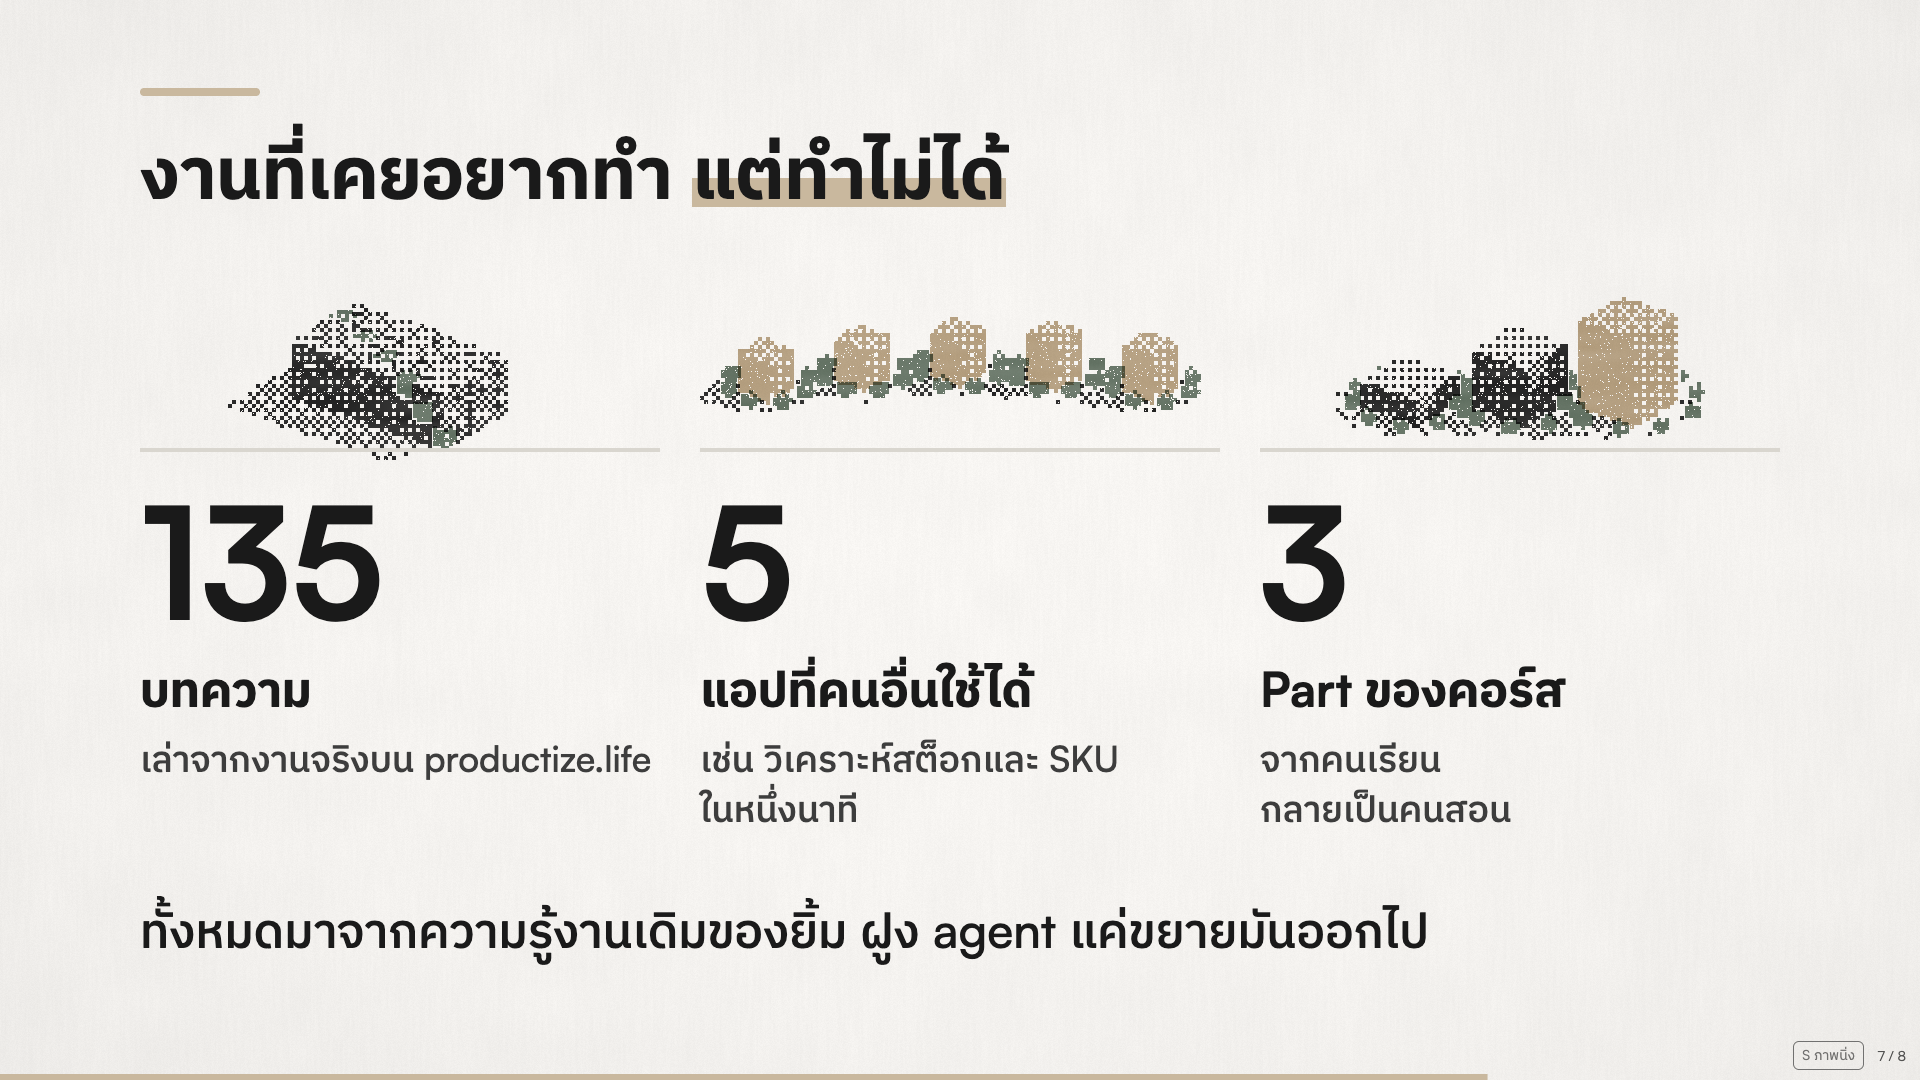
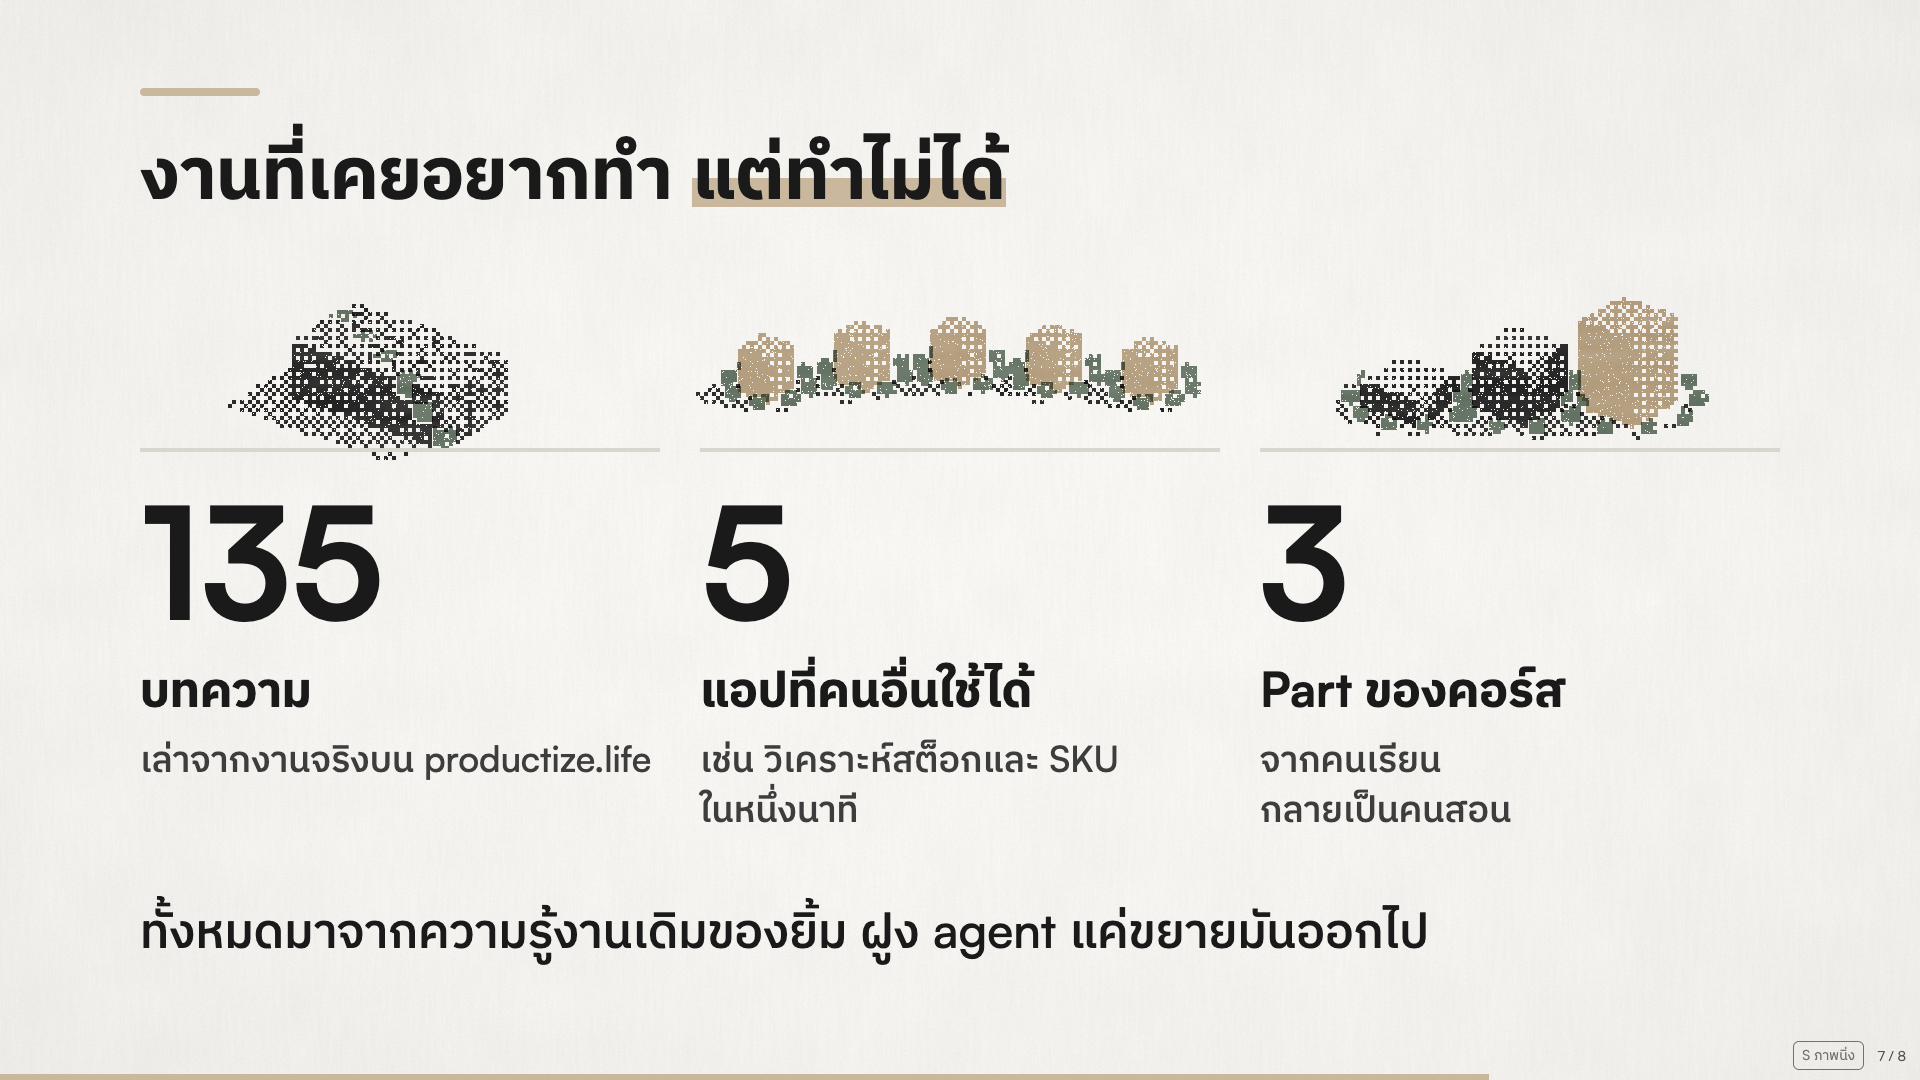
docs(slides): registry slide shows current counts with English terms
15 fleet yaml, 160 skills, ~400 learned topics with 22 decided (counted
2026-11-01 from hello-oracle fleet/ and ψ/learn).

Claude-Session: https://claude.ai/code/session_01Vm4RZ5VtAihcX2kQ2SKMyW

Changed region(s): [[0.6875, 0.3361, 0.9062, 0.4278], [0.375, 0.3361, 0.625, 0.3972]]

diff --git a/ψ/writing/slides/yim-3d/deck.html b/ψ/writing/slides/yim-3d/deck.html
@@ -16,7 +16,8 @@
   Content from ../yim-bridge.html (v3), notes copied verbatim; slide 3 wording from hello-oracle
   ψ/writing/expo-2026-10/2026-11-01_fleet-facts-for-talk.md "Stage-safe wording" plus Dobby's edits.
   Round 6, 2026-11-01: the Riso direction (proto/riso.html) across all 8 slides. Shiro paper, Rikyu inks, dithered isometric
-  blocks printed by vendor/riso.js (a copy of hello-oracle ψ/design-systems/rikyu-labs/slide-kit/riso/riso.js v1.0.0).
+  blocks printed by vendor/riso.js (a copy of hello-oracle ψ/design-systems/rikyu-labs/riso/riso.js v1.1.0; round 7 moved the
+  module there and the deck now calls RikyuRiso.mount() in stage mode).
   Words, notes, timing, keys unchanged. The canvas sits outside the scaled stage and the dither cell is a whole number of
   device px (4 at 1920, 3 at 1280), so the browser never resamples the dots (moire rule, see the kit README).
   Debug flags: ?nomask (no knockout) ?decoy (a block under each heading) ?flat (no grain) ?fixed1920 (moire negative control).
@@ -346,11 +347,11 @@ body.shownotes .notes{display:block}
       <div class="rv" style="--d:2">
         <div class="org-v reg">
           <div class="anc anc-cloud"></div>
-          <svg class="shelf" viewBox="0 0 520 38" role="img" aria-label="ชั้นทะเบียน 17 ช่อง">
+          <svg class="shelf" viewBox="0 0 520 38" role="img" aria-label="ชั้น registry">
             <rect class="anc-slot d-slot" x="4" y="8" width="22" height="22" rx="4" stroke-width="3"/><rect class="anc-slot d-slot" x="34" y="8" width="22" height="22" rx="4" stroke-width="3"/><rect class="anc-slot d-slot" x="64" y="8" width="22" height="22" rx="4" stroke-width="3"/><rect class="anc-slot d-slot" x="94" y="8" width="22" height="22" rx="4" stroke-width="3"/><rect class="anc-slot d-slot" x="124" y="8" width="22" height="22" rx="4" stroke-width="3"/><rect class="anc-slot d-slot" x="154" y="8" width="22" height="22" rx="4" stroke-width="3"/><rect class="anc-slot d-slot" x="184" y="8" width="22" height="22" rx="4" stroke-width="3"/><rect class="anc-slot d-slot" x="214" y="8" width="22" height="22" rx="4" stroke-width="3"/><rect class="anc-slot d-slot" x="244" y="8" width="22" height="22" rx="4" stroke-width="3"/><rect class="anc-slot d-slot" x="274" y="8" width="22" height="22" rx="4" stroke-width="3"/><rect class="anc-slot d-slot" x="304" y="8" width="22" height="22" rx="4" stroke-width="3"/><rect class="anc-slot d-slot" x="334" y="8" width="22" height="22" rx="4" stroke-width="3"/><rect class="anc-slot d-slot" x="364" y="8" width="22" height="22" rx="4" stroke-width="3"/><rect class="anc-slot d-slot" x="394" y="8" width="22" height="22" rx="4" stroke-width="3"/><rect class="anc-slot d-slot" x="424" y="8" width="22" height="22" rx="4" stroke-width="3"/><rect class="anc-slot d-slot" x="454" y="8" width="22" height="22" rx="4" stroke-width="3"/><rect class="anc-slot d-slot" x="484" y="8" width="22" height="22" rx="4" stroke-width="3"/>
           </svg>
         </div>
-        <div class="item key"><p class="title">ทะเบียนว่าใครทำอะไรได้<br>และเรียนอะไรมาแล้ว</p><p class="body">เรียนไป <span class="hl">211</span> เรื่อง<br>ตัดสินใจว่าจะใช้แค่ <span class="hl">17</span></p><p class="cap">ณ ส.ค. 2026</p></div>
+        <div class="item key"><p class="title">Registry ว่าใครทำอะไรได้<br>และเรียนอะไรมาแล้ว</p><p class="body">Fleet registry: agent ละ 1 yaml (<span class="hl">15</span>) · Skill registry <span class="hl">160</span> skills<br>เรียนไปเกือบ <span class="hl">400</span> เรื่อง ตัดสินใจแล้ว <span class="hl">22</span></p><p class="cap">นับ 1 พ.ย. 2026</p></div>
       </div>
       <div class="rv" style="--d:3">
         <svg class="org-v" viewBox="0 0 520 340" role="img" aria-label="งานทุกชิ้นต้องผ่านการตรวจก่อนนับว่าเสร็จ">
@@ -481,7 +482,8 @@ try {
 
   // the print: cell 4 stage px at 1920, always a whole number of device px (see vendor/riso.js, moire rule)
   document.documentElement.classList.add('riso-on');
-  const print = RR.create({ canvas, stage: stageEl, cell: 4, grain: !Q.has('flat'),
+  // stage mode, no draw callback: the deck keeps its own loop, mount() adds the DPR and resize watching
+  const print = RR.mount(canvas, { stage: stageEl, cell: 4, grain: !Q.has('flat'),
     forceOutput: Q.has('fixed1920') ? { w: 1920, h: 1080 } : null, preserveDrawingBuffer: Q.has('readback') });
 
   // camera per slide (orthographic isometric): az = turn around the room, el = height, zoom
